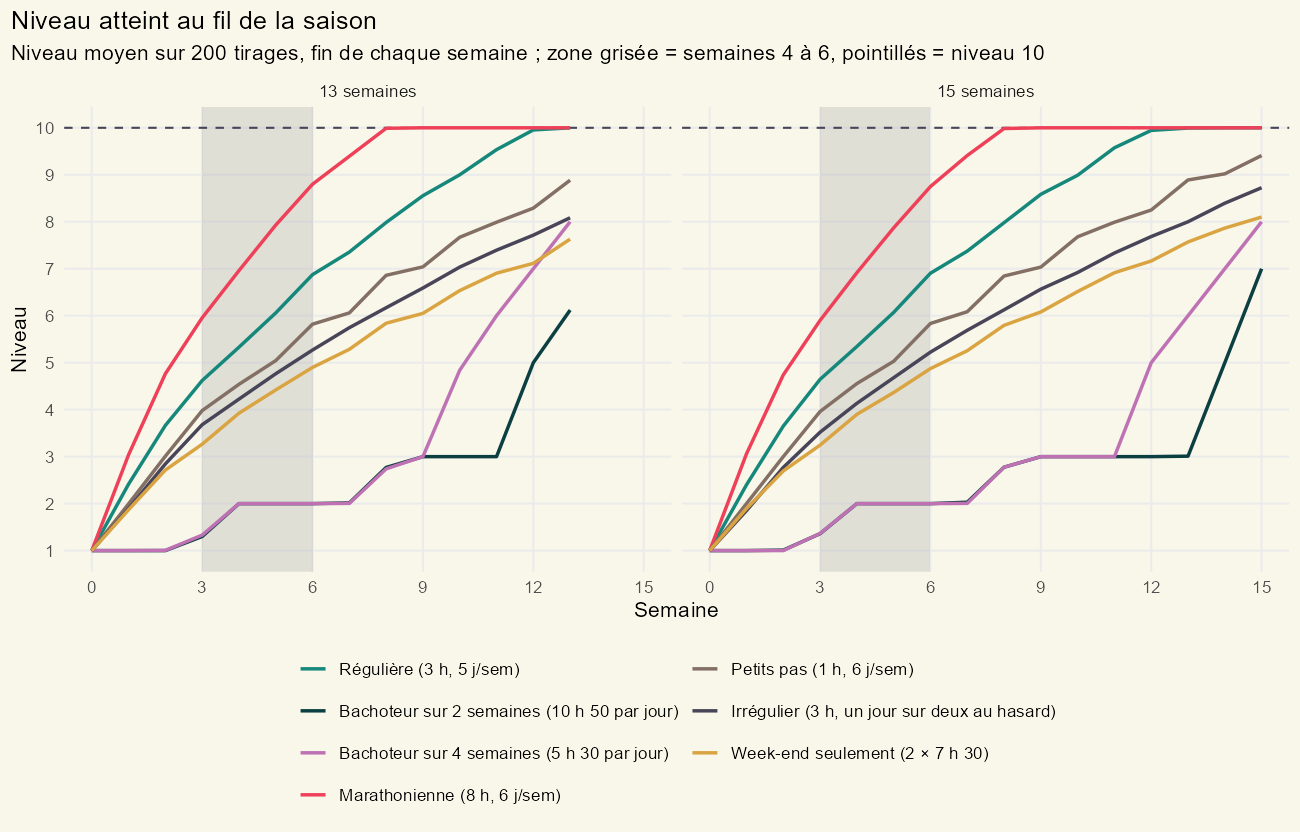
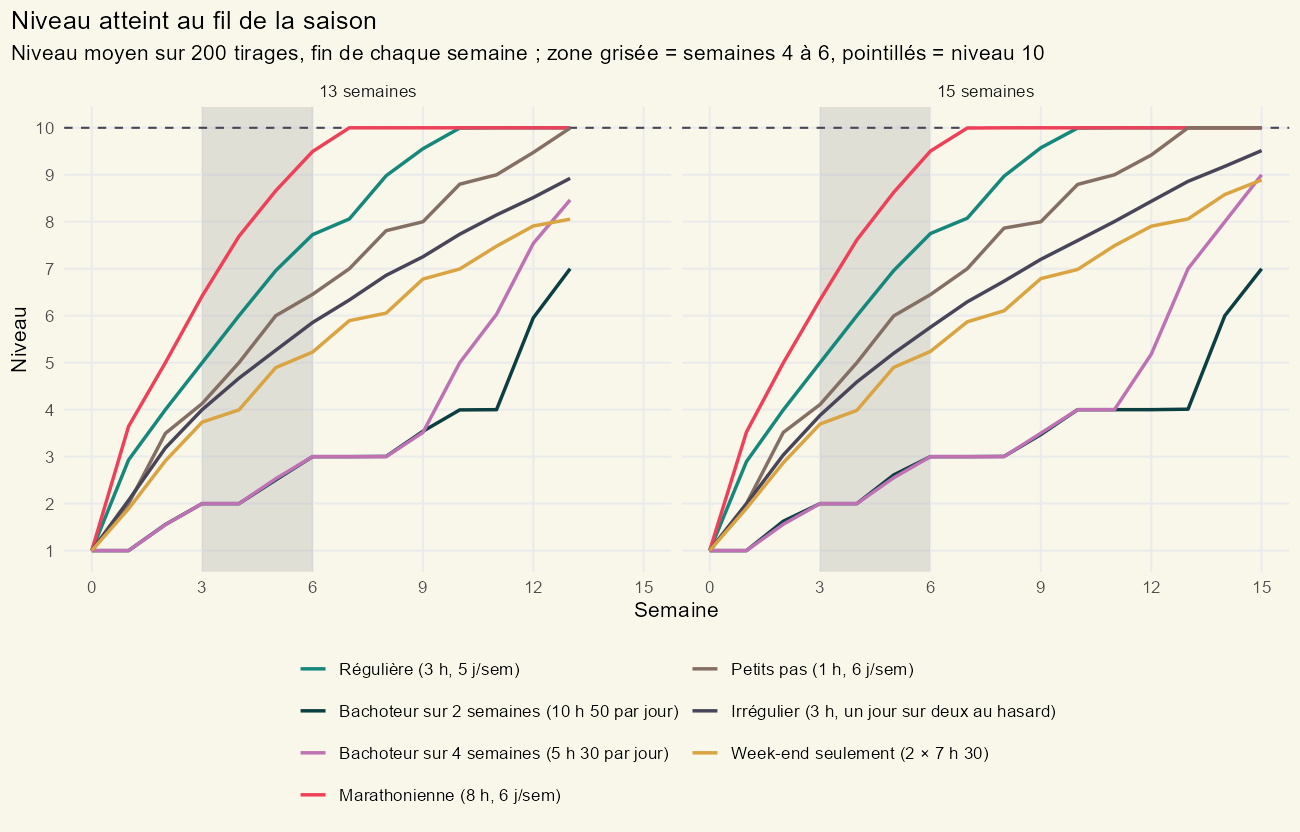
docs: bonus du jour proportionnel retenu, simulation par défaut alignée

diff --git a/docs/passation.md b/docs/passation.md
@@ -36,7 +36,7 @@ Planche de direction artistique publiée : https://claude.ai/artifact/Rhkd2EGriz
 4. **Le jeu se joue avant et après la séance, jamais pendant.**
 5. **Un chantier permanent plutôt qu'un boss** : le château de guilde en ruine se rénove avec l'effort de tous, n'inflige jamais de dégâts, et un membre absent ne coûte rien aux autres. Le feu de camp du départ est dans la cour du château.
    *Complété le 30/09/2026 :* en plus du chantier, **un boss de guilde hebdomadaire** qui se résout tout seul le dimanche à 14 h. La lune rougit au fil de la semaine à l'approche du combat. Les « coups » sont les journées prévues et tenues par chacun, en part de sa propre intention, jamais en minutes. Présence facultative (on peut regarder ensemble au feu), jamais de dégâts, un absent est « en voyage », un boss non vaincu se retire et les dégâts restent acquis.
-6. **Deux ressources** (confirmé avec le conseiller le 30/09/2026, voir `docs/conseiller/2026-09-30-formule-xp-economie-reponse.md`) : l'**Élan** est toute l'XP de la variante B et fait monter le personnage, sans jamais baisser ; les **braises** sont la monnaie (1 par jour prévu tenu, 3 par semaine tenue, 1 par séance commune), dépensées en cosmétiques et en rénovation. Niveaux 1 à 10, Élan cumulé de forme 250 (n − 1)(n + 2) ajustée pour un niveau 10 à 25 000. **Saisons climatiques** (automne, hiver, printemps, été, environ 13 semaines) plutôt que semestres, car les filières n'ont pas le même calendrier : chaque saison a son ambiance visuelle, et seul le compteur d'Élan repart, sans perte (personnage, braises, château, cosmétiques et emblème de saison restent). Semaine tenue : 150 par jour prévu tenu, plafond 600. Objectif du jour d'au moins 30 min, figé au premier lancement du minuteur. Bonus de méthode et de régularité additionnés, plafond × 1,5. Séance commune : + 50 Élan et 1 braise par jour.
+6. **Deux ressources** (confirmé avec le conseiller le 30/09/2026, voir `docs/conseiller/2026-09-30-formule-xp-economie-reponse.md`) : l'**Élan** est toute l'XP de la variante B et fait monter le personnage, sans jamais baisser ; les **braises** sont la monnaie (1 par jour prévu tenu, 3 par semaine tenue, 1 par séance commune), dépensées en cosmétiques et en rénovation. Niveaux 1 à 10, Élan cumulé de forme 250 (n − 1)(n + 2) ajustée pour un niveau 10 à 25 000. **Saisons climatiques** (automne, hiver, printemps, été, environ 13 semaines) plutôt que semestres, car les filières n'ont pas le même calendrier : chaque saison a son ambiance visuelle, et seul le compteur d'Élan repart, sans perte (personnage, braises, château, cosmétiques et emblème de saison restent). Semaine tenue : 150 par jour prévu tenu, plafond 600. Objectif du jour d'au moins 30 min, figé au premier lancement du minuteur ; son bonus est **proportionnel** au crédit du jour (un jour presque tenu rapporte presque tout). Simulation `docs/simulations/03-formule-xp-saison.R`, mode « proportionnel », seuil 25 000 : sur 13 semaines, niveau 10 vers la semaine 9,4 pour la régulière, 6,5 pour la marathonienne, 12,5 pour les petits pas. Bonus de méthode et de régularité additionnés, plafond × 1,5. Séance commune : + 50 Élan et 1 braise par jour.
 7. **Séries qui plient sans casser** : jours prévus tenus, jours de repos planifiés, deux jokers par semaine, réparation, aucune notification de menace.
 8. **Séance de groupe** : code court affiché par l'hôte, minuteur et pauses communs, présence affichée sans les heures.
 9. **Minuteur par horodatages serveur ; toute écriture d'XP passe par des fonctions serveur** (jamais calculée côté client).
